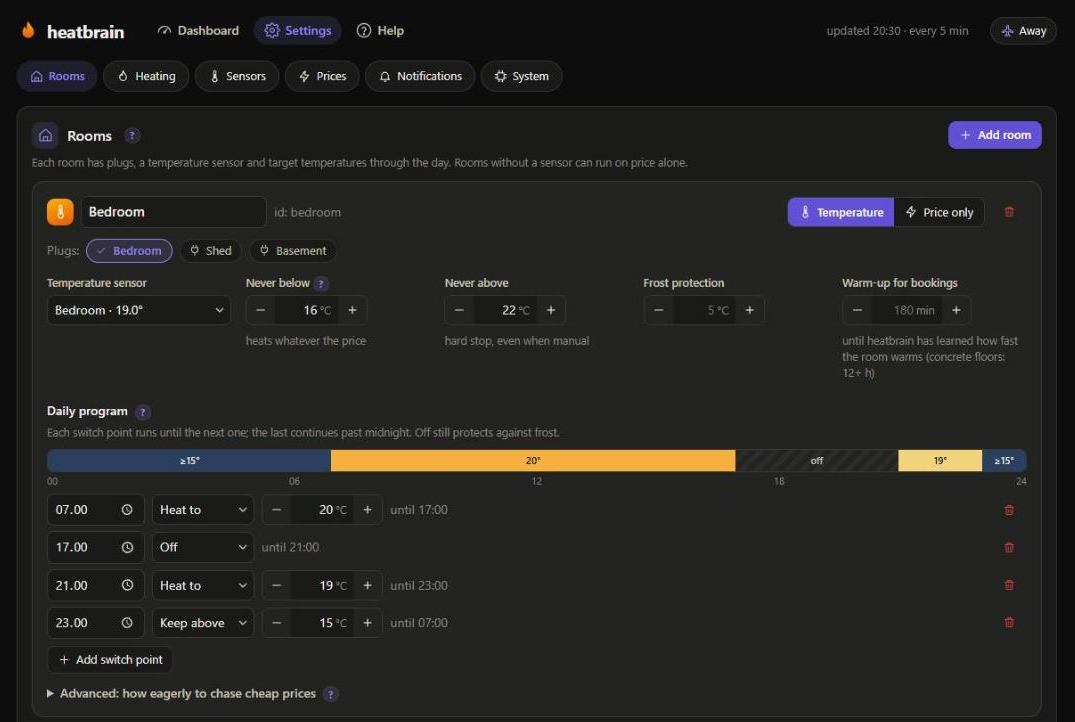
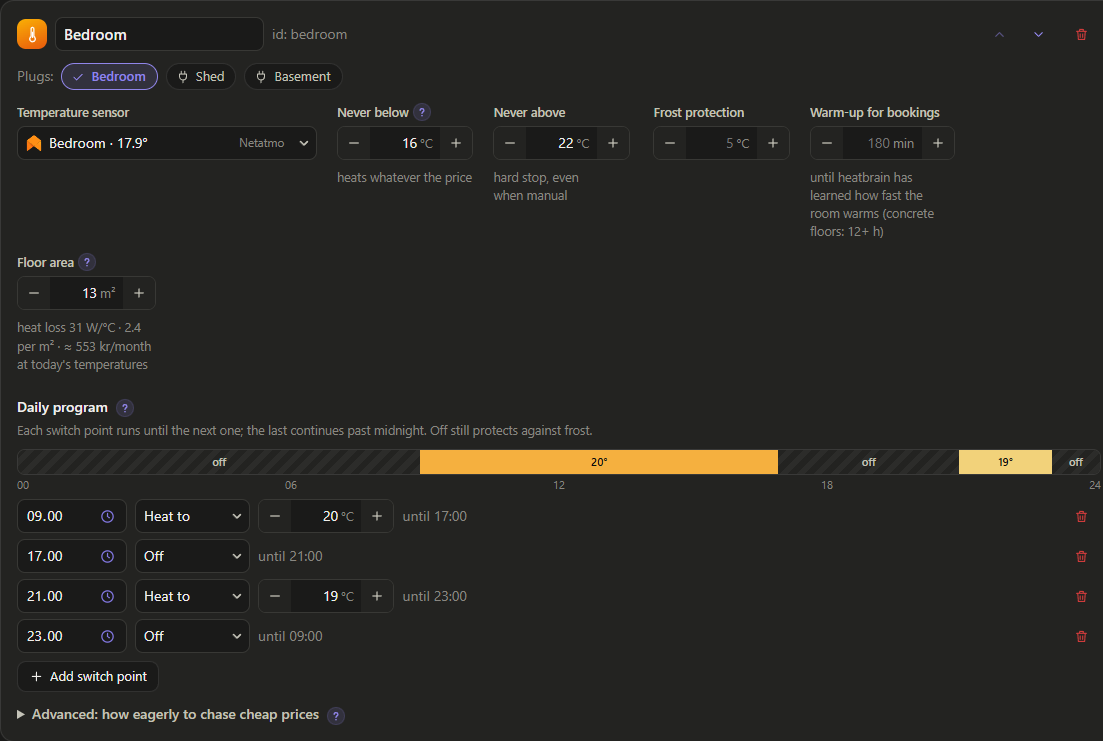
README: VELUX ACTIVE, Shelly H&T, CO2 and the Basic R4 in the hardware table; insulation, air quality and battery warnings among the features and alerts; the new Settings layout; room settings screenshot with the sensor dropdown and floor area

diff --git a/web/help.js b/web/help.js
@@ -6,7 +6,7 @@ const HELP = {
     title: "Getting started",
     list: [
       "Settings → Heaters: scan your network, add your Tasmota plugs and enter each radiator's power (W).",
-      "Settings → Sensors: connect Netatmo so rooms get their temperature.",
+      "Settings → Sensors: connect Netatmo, VELUX ACTIVE or a Shelly H&T so rooms get their temperature.",
       "Settings → Rooms: add a room, pick its plug(s) and sensor, and set its daily program.",
       "Leave plugs in dry-run for a day or two and watch what heatbrain would do on the dashboard.",
       "Happy? Install the fail-safe on a plug, test it, then switch the plug to live - straight away: with the fail-safe installed, a dry-run plug switches itself off and runs limp mode, because heatbrain does not refresh it.",

diff --git a/README.md b/README.md
@@ -30,6 +30,11 @@ a NAS or on a PC.
   just above a floor. For a network that is switched off at night, a schedule is loaded onto
   each plug beforehand. A room whose temperature falls fast (a window open) pauses its heating
   for a while.
+- **Watches the rooms themselves.** How well each room keeps its heat (heat loss in W/°C, per
+  m² floor and per month in kroner), with a note when a room loses clearly more than the others
+  or suddenly faster than its own normal. CO₂ from the room sensors, with a notification when the
+  air gets poor (a high night comes as one message in the morning). Sensor batteries are warned
+  about when they are projected to run out, not at a fixed level.
 - **Safe by design.** Every plug carries its own dead-man switch and a limp-mode watchdog,
   so a crash or a lost network never means "heat forever" (see [Fail-safe](#fail-safe)).
 - **Knows what it costs.** Cost per room per day, the average price paid against the market
@@ -59,9 +64,10 @@ a NAS or on a PC.
 
 | What | Supported | Notes |
 |---|---|---|
-| Heaters on smart plugs | Tasmota (e.g. Sonoff Basic R2) | heatbrain installs a fail-safe on each plug and tests it per firmware version |
+| Heaters on smart plugs | Tasmota (e.g. Sonoff Basic R2, Basic R4) | heatbrain installs a fail-safe on each plug and tests it per firmware version; upgrades pick the image for the plug's chip (ESP8266, ESP32-C3, ...) |
 | Floor heating | Danfoss DEVIreg Smart | paired from the DEVI app with a one-time code; heatbrain sets the setpoint and reads the floor temperature and real heating time |
-| Room temperatures | Netatmo Weather Station (indoor modules), DEVIreg Smart's own sensors | |
+| Room temperatures | Netatmo Weather Station (indoor modules), VELUX ACTIVE (wall switch / climate sensors), Shelly H&T Gen3, DEVIreg Smart's own sensors | VELUX: read from the VELUX app's cloud (unofficial; log in once, only the token is kept). Shelly: battery sensors send their readings to heatbrain (no cloud) |
+| CO₂ | Netatmo indoor modules, VELUX ACTIVE | kept with the readings; notification above a chosen level |
 | Outdoor temperature | Netatmo outdoor module, plus the Open-Meteo forecast | |
 | Prices | Energi Data Service (DK1/DK2 spot, Danish grid tariffs) | any country via time-of-day `schedule` components |
 | Meter data | Eloverblik (Danish smart meters) | hourly household consumption, about a day behind |
@@ -89,10 +95,10 @@ router port to it. Full steps for a Synology NAS are under [Deployment](#deploym
 
 ```
 src/core/       Pure logic, no IO: time/DST, tariffs, price outlook, planner, thermal model,
-                forecast, open-window detection, alerts, costs
+                forecast, open-window detection, alerts, costs, insulation, air quality, batteries
 src/net/        HTTP client + file cache (public APIs are rate limited)
 src/providers/  Prices (Energi Data Service), meter data (Eloverblik), weather (Open-Meteo)
-src/sensors/    Temperature sources (Netatmo)
+src/sensors/    Temperature sources (Netatmo, VELUX ACTIVE, pushed readings from Shelly H&T)
 src/plugs/      Tasmota plugs with the on-plug fail-safe; a simulated plug for development
 src/devices/    DEVIreg Smart thermostats (SecureDeviceGrid via OpenSDG)
 src/storage/    SQLite history (decisions, temperatures, prices, meter readings)
@@ -269,7 +275,10 @@ power plants, imports and CO2 per hour, from Energinet's open data) - each can b
 in Settings → System; then heating cost and meter data. The outdoor card opens the same chart for the outdoor temperature. Overrides
 from the UI are applied immediately. **Settings** edits everything in the config (rooms and
 programs, plugs incl. fail-safe and firmware upgrades, sensors, prices, notifications,
-system) with validation and backups; **Help** explains every feature, and "?" buttons show
+system) with validation and backups. It is arranged as Rooms, Heaters, Sensors (the sensor
+connections and a card per module with its readings, battery and charts from 2 days to a year),
+Climate (outdoor sensor, weather forecast, open windows, air quality), Prices, Notifications
+and System; **Help** explains every feature, and "?" buttons show
 the same text next to the settings. Light/dark/system theme. The frontend is plain HTML/JS in `web/` (no build step); in dev builds it is served
 straight from the source folder, so edits only need a browser refresh.
 
@@ -298,7 +307,9 @@ against the month before); a heads-up at 14:00 when tomorrow is at least 20 % mo
 cheaper than the past week; and a message when a new Tasmota release is out for your plugs.
 
 Alerts: plug unreachable, plug state differs from commanded state, Netatmo re-login
-required, Netatmo module offline / low battery, stale temperature (room in limp mode),
+required, Netatmo module offline, a sensor battery that will run out within about three weeks
+(or before a planned away period ends), poor air (CO₂ above the chosen level for 20 minutes),
+a room losing heat much faster than usual, stale temperature (room in limp mode),
 tomorrow's prices missing by ~15:00, room below minimum despite heating (open window /
 radiator off), window open (heating paused), thermostat unreachable, a live plug whose
 fail-safe is not verified, heatbrain restarted.
